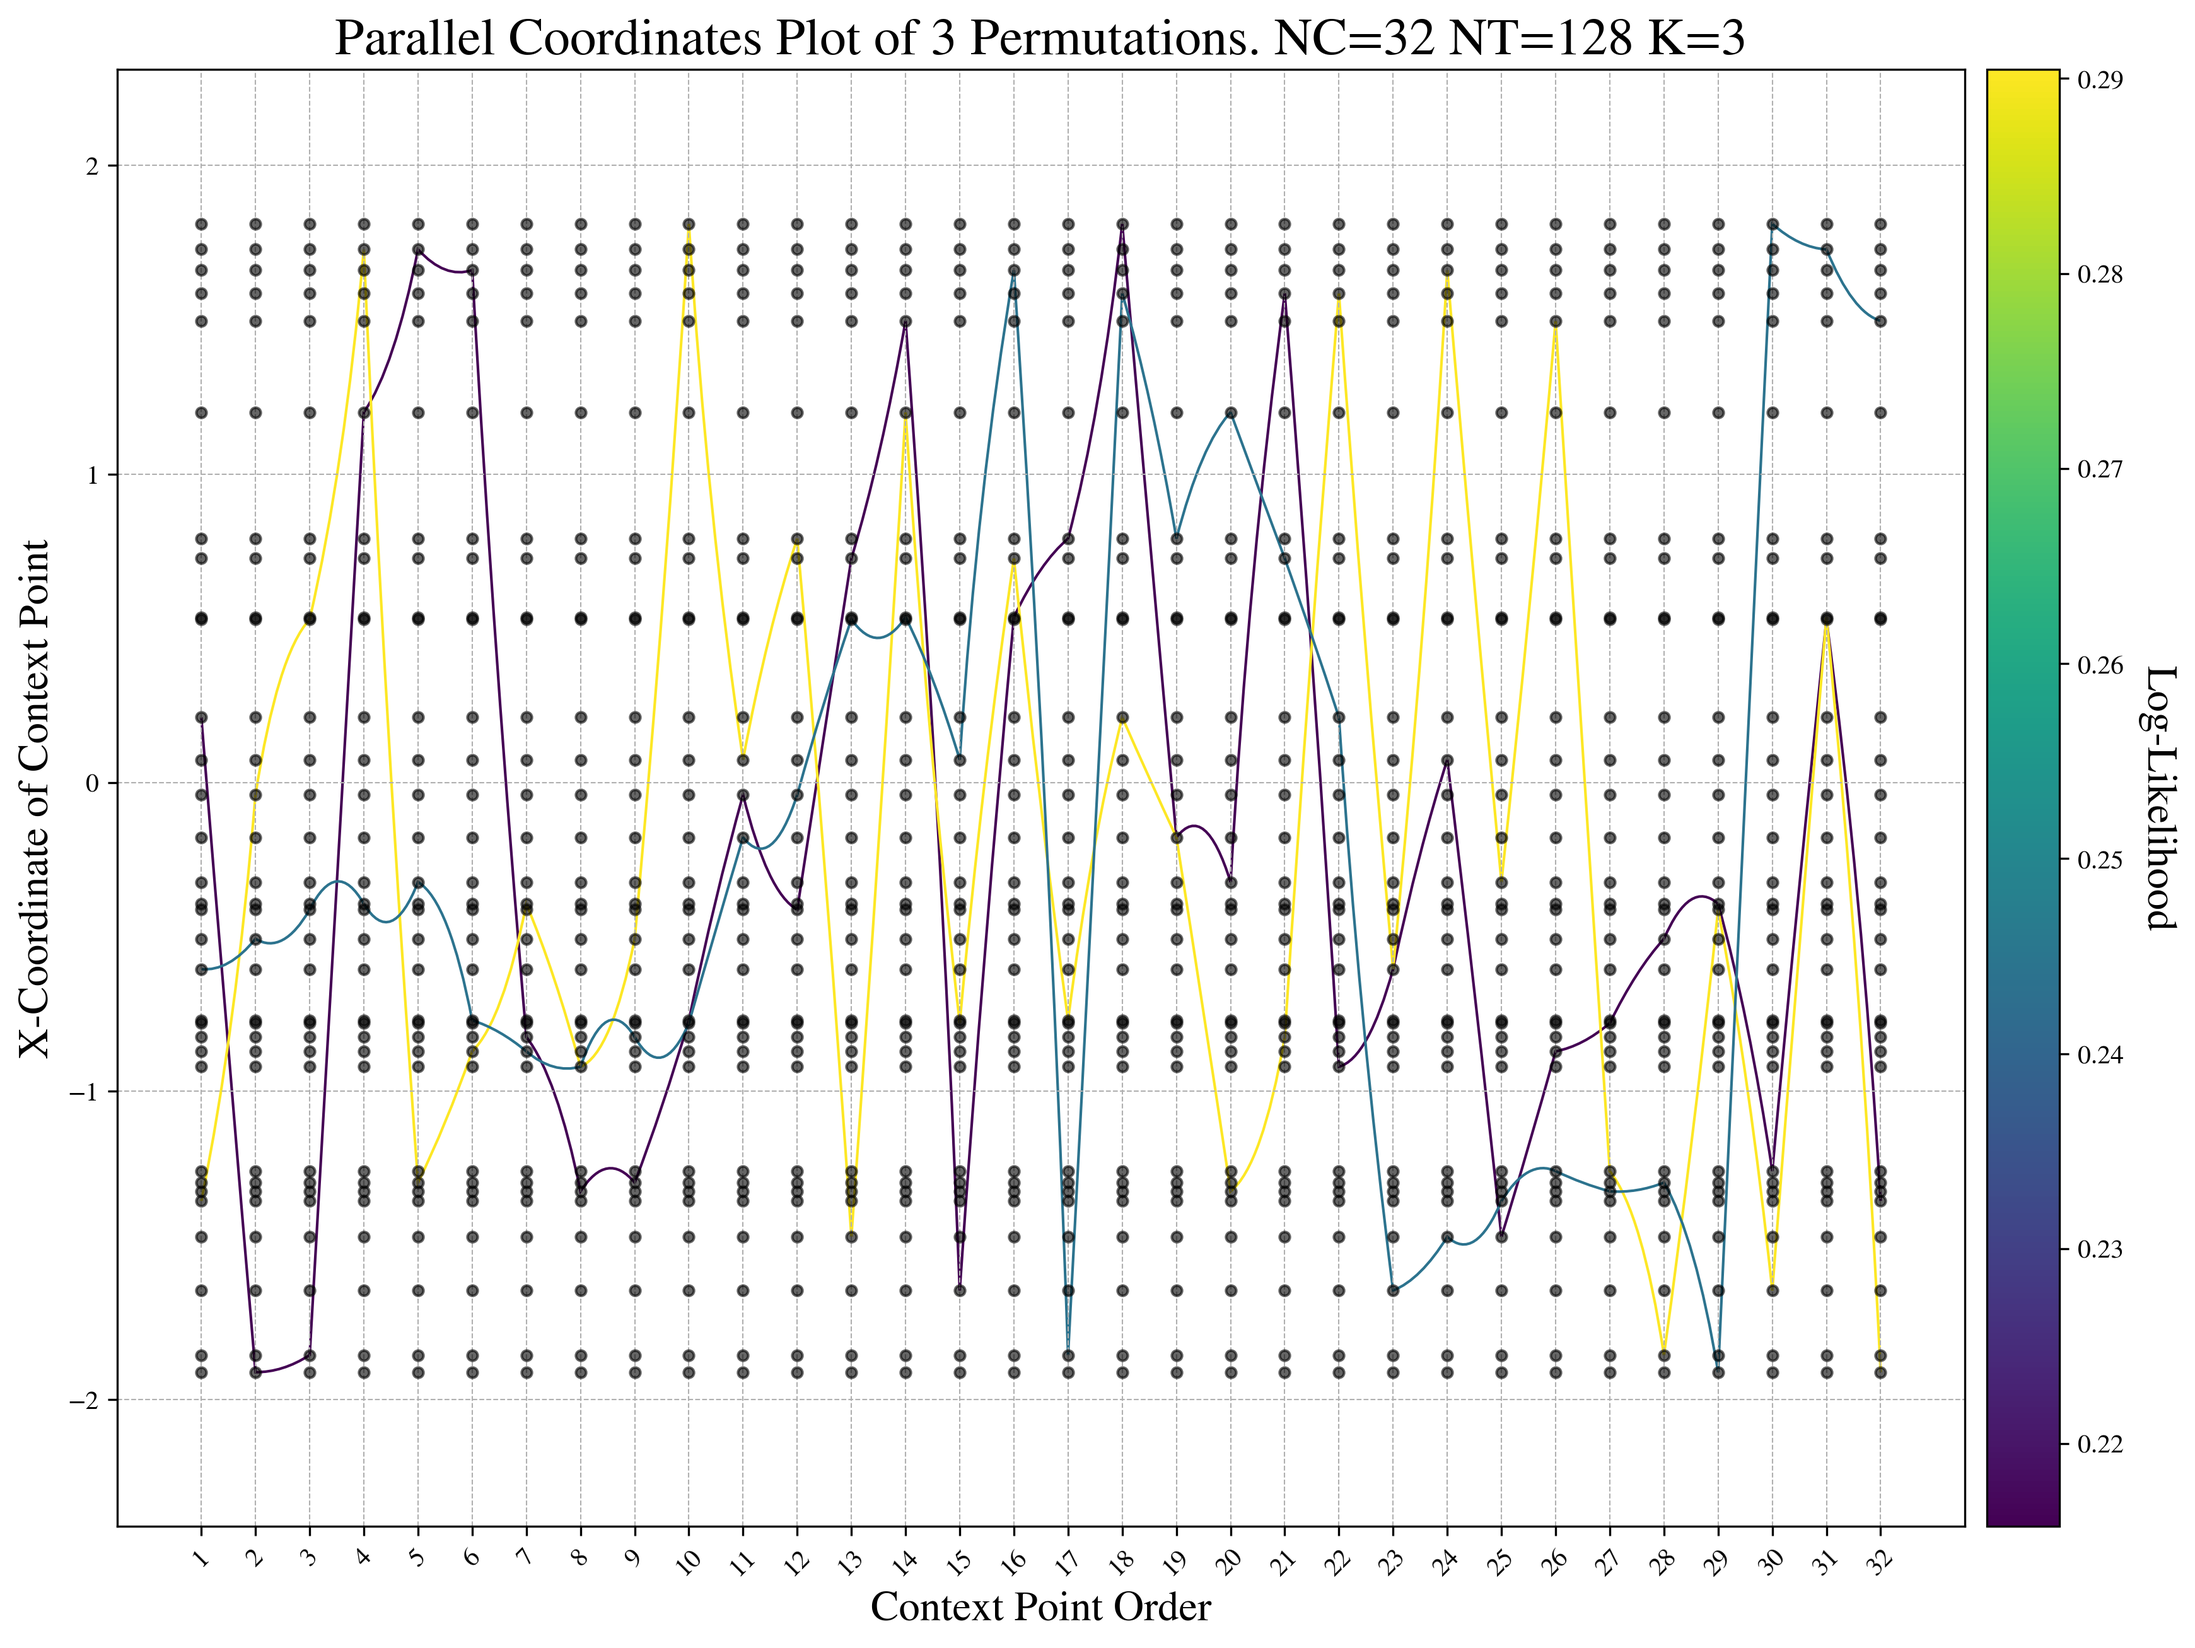
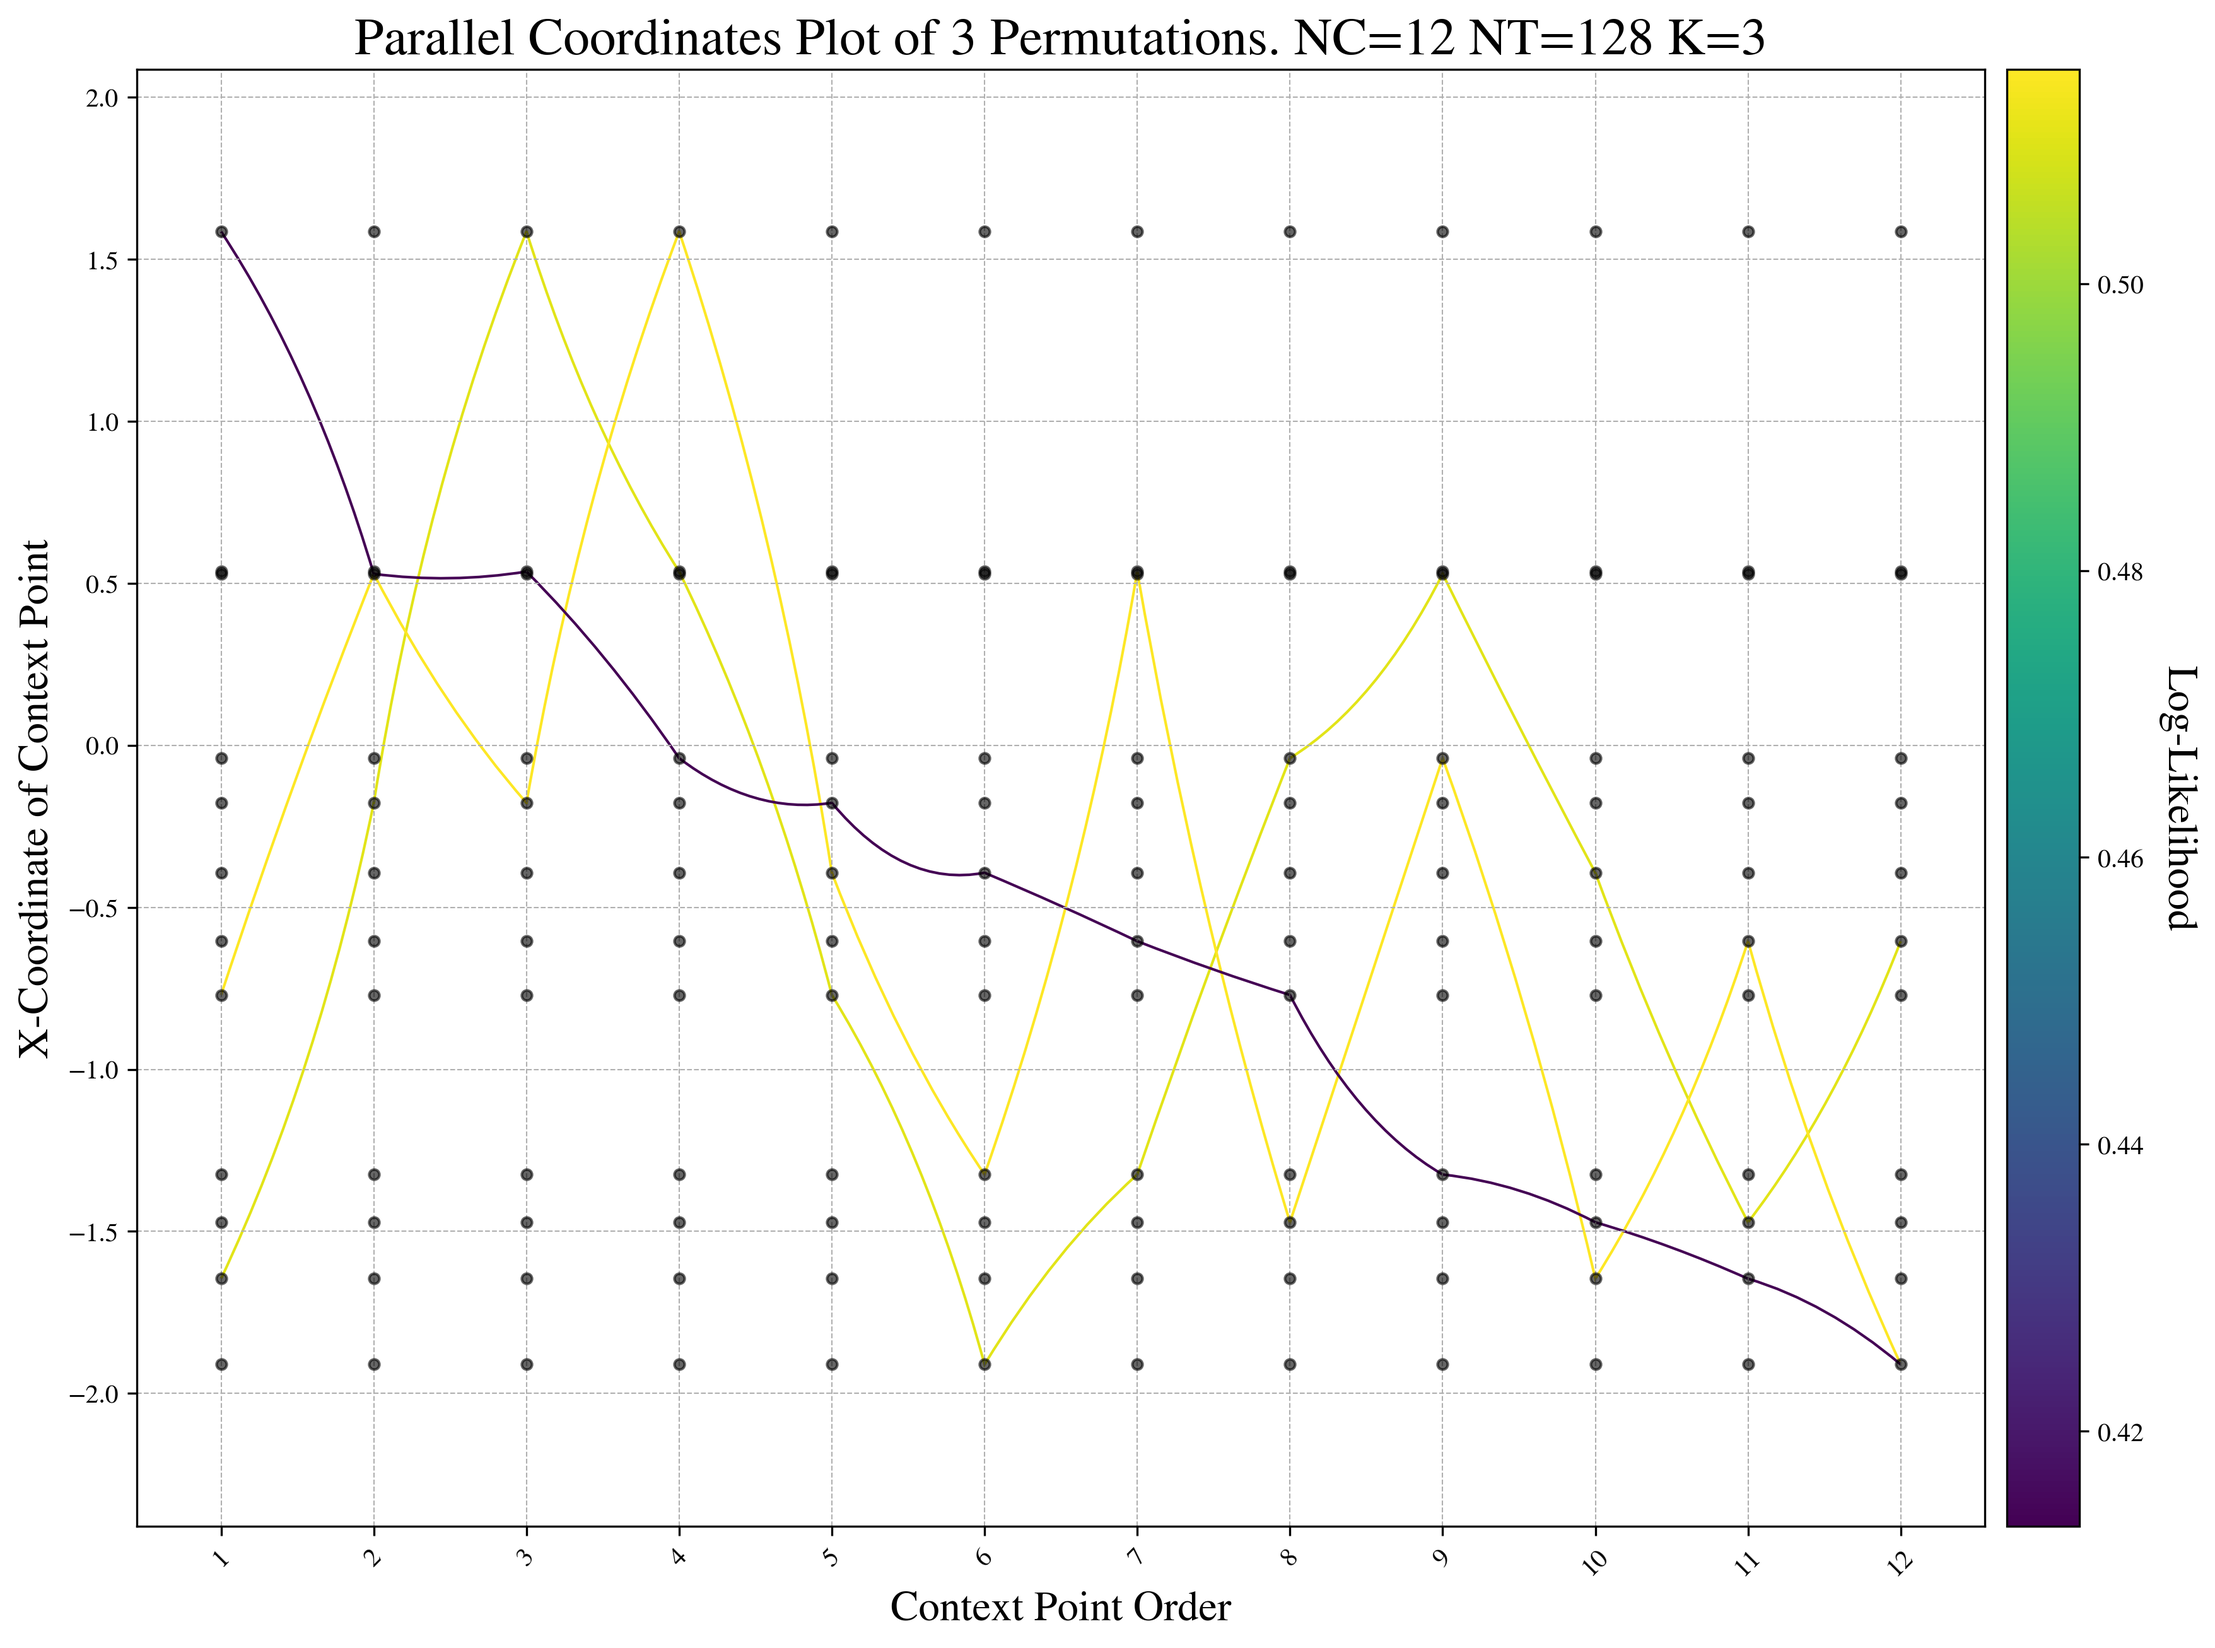
One plot for parra

diff --git a/experiments/plot_adversarial_perms.py b/experiments/plot_adversarial_perms.py
@@ -105,7 +105,7 @@ def plot_perm(
     annotate: bool = True, # Number the points or not
     figsize: Tuple[float, float] = (8.0, 6.0),
     x_range: Tuple[float, float] = (-2.0, 2.0),
-    y_lim: Tuple[float, float] = (-2.0, 2.0),
+    y_lim: Tuple[float, float] = (-3.0, 3.0),
     points_per_dim: int = 64,
     savefig: bool = True,
     logging: bool = True,
@@ -632,7 +632,7 @@ if __name__ == "__main__":
                          max_log10_lengthscale=max_log10_lengthscale)
     kernels = [rbf_kernel_factory]
     # Data generator params
-    nc, nt = 32, 128
+    nc, nt = 12, 128
     context_range = [[-2.0, 2.0]]
     target_range = [[-2.0, 2.0]]
     samples_per_epoch = 1
@@ -643,12 +643,18 @@ if __name__ == "__main__":
         deterministic=True, kernel=kernels)
     data = next(iter(gen_val))
     # Gets plain model - ensure these strings are correct
+    #plain_model = get_model('experiments/configs/synthetic1dRBF/gp_plain_tnp_rangesame.yml', 
+     #   'pm846-university-of-cambridge/plain-tnp-rbf-rangesame/model-7ib3k6ga:v200')
     plain_model = get_model('experiments/configs/synthetic1dRBF/gp_plain_tnp_rangesame.yml', 
-        'pm846-university-of-cambridge/plain-tnp-rbf-rangesame/model-7ib3k6ga:v200')
+        'pm846-university-of-cambridge/plain-tnp-rbf-rangesame/model-a3qwpptn:v200')
+    # plain tnp model-a3qwpptn:v200
     plain_model.eval()
 
+    #masked_model = get_model('experiments/configs/synthetic1dRBF/gp_causal_tnp.yml', 
+    #    'pm846-university-of-cambridge/mask-tnp-rbf-rangesame/model-vavo8sh2:v200')
     masked_model = get_model('experiments/configs/synthetic1dRBF/gp_causal_tnp.yml', 
-        'pm846-university-of-cambridge/mask-tnp-rbf-rangesame/model-vavo8sh2:v200')
+        'pm846-university-of-cambridge/mask-tnp-rbf-rangesame/model-8mxfyfnw:v200')
+    #masked model-8mxfyfnw:v200
     masked_model.eval()
 
     #masked_model = get_model('experiments/configs/synthetic1dRBF/gp_priorbatched_causal_tnp_rbf_rangesame.yml',
@@ -679,7 +685,7 @@ if __name__ == "__main__":
 
     print("Starting search")
     perms, log_p, (data_time, inference_time, total_time) = gather_rand_perms(masked_model, xc, yc, data.xt, data.yt, 
-        no_permutations=100_000, device='cuda', batch_size=2048)
+        no_permutations=10_000_000, device='cuda', batch_size=2048)
     print(f"Data time: {data_time:.2f}s, Inference time: {inference_time:.2f}s, Total time: {total_time:.2f}s")
     visualise_perms(masked_model, perms, log_p, xc, yc, data.xt, data.yt,
         folder_path="experiments/plot_results/adversarial", file_id="1", gt_pred=data.gt_pred, 

diff --git a/experiments/eval.py b/experiments/eval.py
@@ -47,6 +47,11 @@ def test_model(lit_model, experiment, wandb_run=None):
     test_result["mean_loglik"] = loglik.mean()
     test_result["std_loglik"] = loglik.std() / (len(loglik) ** 0.5)
 
+    rmse = torch.stack(test_result["rmse"])
+    test_result["mean_rmse"] = rmse.mean()
+    test_result["std_rmse"] = rmse.std() / (len(rmse) ** 0.5)    
+
+
     # Handles hadISD case
     if "loglik_temp" in test_result:
         loglik_temp = torch.stack(test_result["loglik_temp"])
@@ -68,6 +73,9 @@ def test_model(lit_model, experiment, wandb_run=None):
         summary.update({"num_params": num_params})
         summary.update({f"test/{eval_name}/loglik": test_result["mean_loglik"]})
         summary.update({f"test/{eval_name}/std_loglik": test_result["std_loglik"]})
+
+        summary.update({f"test/{eval_name}/rmse": test_result["mean_rmse"]})
+        summary.update({f"test/{eval_name}/std_rmse": test_result["std_rmse"]})
         if "mean_gt_loglik" in test_result:
             summary.update({f"test/{eval_name}/gt_loglik": test_result["mean_gt_loglik"]})
             summary.update({f"test/{eval_name}/std_gt_loglik": test_result["std_gt_loglik"]})
@@ -89,4 +97,7 @@ def main():
 
 
 if __name__ == "__main__":
+# python experiments/eval.py --run_path pm846-university-of-cambridge/plain-tnp-rbf-rangesame/runs/a3qwpptn --config experiments/configs/synthetic1dRBF/gp_plain_tnp_rangesame.yml --checkpoint pm846-university-of-cambridge/plain-tnp-rbf-rangesame/model-a3qwpptn:v200
+# python experiments/eval.py --run_path pm846-university-of-cambridge/mask-tnp-rbf-rangesame/runs/8mxfyfnw --config experiments/configs/synthetic1dRBF/gp_causal_tnp_rangesame.yml --checkpoint pm846-university-of-cambridge/mask-tnp-rbf-rangesame/model-8mxfyfnw:v200
+# python experiments/eval.py --run_path pm846-university-of-cambridge/mask-batched-tnp-rbf-rangesame/runs/xtnh0z37 --config experiments/configs/synthetic1dRBF/gp_batched_causal_tnp_rbf_rangesame.yml --checkpoint pm846-university-of-cambridge/mask-batched-tnp-rbf-rangesame/model-xtnh0z37:v200
     main()
